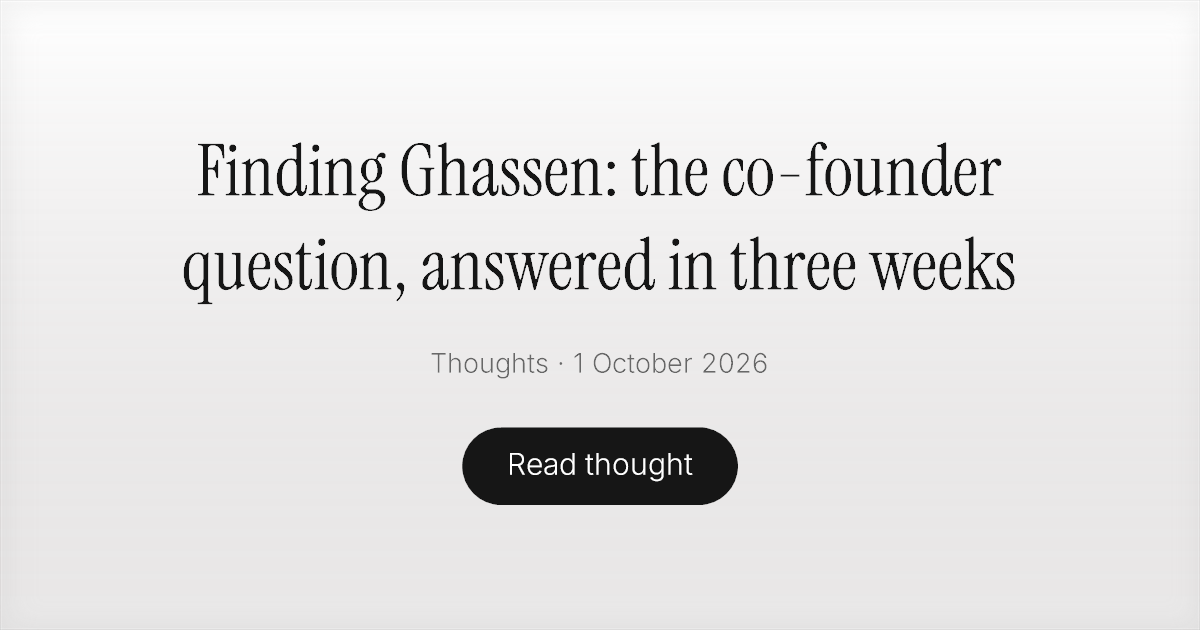
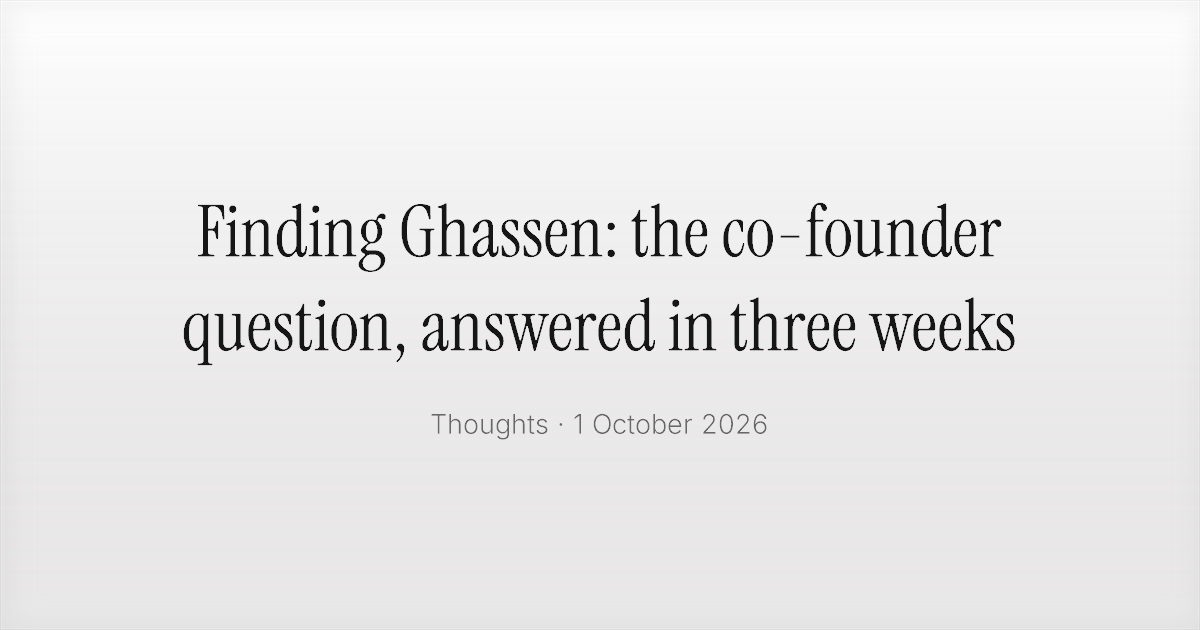
SEO: strengthen Mattia Ciuni entity signals and add security audit note
Make the homepage answer who Mattia Ciuni is and what he does, enrich Person metadata and search intent coverage for Mattia Ciuni and Payle, and publish the security audit note with its generated card, cover, sitemap and markdown card. Keep the homepage and section OG masters unchanged and restore Ghassen's article card style without the new CTA pill.

🤖 Generated with Codebuff

Changed region(s): [[0.1542, 0.2111, 0.8633, 0.6032], [0.37, 0.6635, 0.6475, 0.8143]]

diff --git a/lib/notes.ts b/lib/notes.ts
@@ -13,6 +13,154 @@ export interface Note {
 
 const raw: Note[] = [
   {
+    slug: "what-a-security-audit-taught-me",
+    title: "What a security audit taught me that no bootcamp will",
+    description:
+      "I paid strangers to attack my payments engine. The race conditions, the ledger that lied to itself, and the deletion that would have erased every customer.",
+    date: "2026-10-12",
+    keywords: [
+      "security audit",
+      "payments security",
+      "fintech engineering",
+      "race conditions",
+      "Payle",
+    ],
+    content: [
+      {
+        type: "h2",
+        text: "I shipped it, and then I paid strangers to attack it",
+      },
+      {
+        type: "p",
+        text: "Eight weeks into building Payle, I did something most pre-seed founders don't do: I hired someone to find everything wrong with my code.",
+      },
+      {
+        type: "p",
+        text: "Not a code review from a friend. Not a \"looks good to me\" from a cofounder. A full external audit of the money path: the authorization engine, the ledger, every place where a euro could move without a human understanding why.",
+      },
+      {
+        type: "p",
+        text: "I want to tell you what it found, because the list humbled me, taught me more than any tutorial ever has, and contains lessons that no bootcamp in the world includes in its curriculum.",
+      },
+      {
+        type: "h2",
+        text: "Finding one: the race that could double-charge",
+      },
+      {
+        type: "p",
+        text: "My authorization endpoint checked the budget, then wrote the decision, then recorded the idempotency key. Three steps. Linear. Obvious.",
+      },
+      {
+        type: "p",
+        text: "Except that HTTP doesn't care about my sense of order. Two identical requests arriving at the same millisecond, and agents retry aggressively because that is their nature, could both pass the check, both write a decision, and both authorize a payment. Double charge. Same user. Same second.",
+      },
+      {
+        type: "p",
+        text: "The fix sounds boring and is beautiful: the idempotency claim and the decision must live in the same database transaction. Insert the key first. If another request got there first, return its stored response. If not, this request owns the key and the decision. One transaction. One truth.",
+      },
+      {
+        type: "p",
+        text: "In payments, correctness isn't about what your code does. It is about what your code does when two copies of it run at the same time.",
+      },
+      {
+        type: "p",
+        text: "Concurrency is where junior code and production code diverge.",
+      },
+      {
+        type: "h2",
+        text: "Finding two: the ledger that lied to itself",
+      },
+      {
+        type: "p",
+        text: "I was proud of my hash-chained ledger. Every entry linked to the previous one with sha256. Tamper-evident, like a blockchain, but honest about being a database.",
+      },
+      {
+        type: "p",
+        text: "The audit found two holes in it. First: I read the previous hash outside the transaction that appended the new entry, meaning two concurrent writes could fork the chain. Second: one lifecycle path wrote a literal string as a hash instead of computing one. My own verification tool, pointed at my own healthy system, would have cried \"TAMPERED.\"",
+      },
+      {
+        type: "p",
+        text: "Both fixed. Both now covered by tests that fail if anyone ever regresses them.",
+      },
+      {
+        type: "p",
+        text: "A security property you haven't tested is a decoration, not a property.",
+      },
+      {
+        type: "p",
+        text: "\"The ledger is immutable\" is a sentence. \"This test proves the chain verifies after 10,000 mixed-lifecycle operations\" is a fact.",
+      },
+      {
+        type: "h2",
+        text: "Finding three: the deletion that would have erased everyone",
+      },
+      {
+        type: "p",
+        text: "This one still keeps me up at night, a little.",
+      },
+      {
+        type: "p",
+        text: "My account-deletion endpoint deleted ledger entries. With no WHERE clause. Meaning: one user tapping \"delete my account\" would have wiped the audit trail of every customer in the system. The audit called it what it was: a global data destruction bug hiding behind a routine feature.",
+      },
+      {
+        type: "p",
+        text: "The fix: the ledger is never deleted, ever. Account deletion pseudonymizes the user's identity while preserving the financial chain. Roles at the database level now enforce what the application used to promise.",
+      },
+      {
+        type: "p",
+        text: "Destructive operations need to be scoped at the database level, not by application discipline.",
+      },
+      {
+        type: "p",
+        text: "Application code changes. Privileges don't, unless you make them.",
+      },
+      {
+        type: "h2",
+        text: "Finding four: fail-safe vs fail-open",
+      },
+      {
+        type: "p",
+        text: "When the risk service is down, what should the payment system do? Block everything, or approve everything?",
+      },
+      {
+        type: "p",
+        text: "I had built neither, because I hadn't built the risk service yet, so the question was theoretical. The audit forced it to become practical: it wired the fail-safe path, made \"risk service unreachable\" a first-class state, and added the rule I now consider sacred: when uncertain, a human approves. Machines don't guess with money.",
+      },
+      {
+        type: "h2",
+        text: "The full list was longer",
+      },
+      {
+        type: "p",
+        text: "Missing rate limiting. PII in logs. A config that boots happy when malformed and dies on first request. An ID verification flow that a 2023-era attacker would laugh at. Each finding was a conversation between me and my own assumptions.",
+      },
+      {
+        type: "p",
+        text: "And the reason I'm writing this isn't humility. It's arithmetic: every one of these bugs, found after launch, costs ten times more, in money, in trust, in YC interviews where a partner asks \"how do you know your ledger doesn't fork?\" and you don't have an answer with a test in it.",
+      },
+      {
+        type: "h2",
+        text: "What I'd tell every builder now",
+      },
+      {
+        type: "p",
+        text: "If you're building anything that touches money, do this before your next feature:\n1. Get someone whose job is breaking your assumptions.\n2. Fix what they find with tests that fail before the fix.\n3. Keep those tests in CI forever, so the lesson can't be unlearned.",
+      },
+      {
+        type: "p",
+        text: "The audit didn't just find bugs. It taught me the difference between code that works and code that deserves to hold someone's money. That difference is the entire fintech industry, compressed.",
+      },
+      {
+        type: "p",
+        text: "No bootcamp covers it. You get it by paying strangers to attack the thing you love.",
+      },
+      {
+        type: "p",
+        text: "Worth every cent.",
+      },
+    ],
+  },
+  {
     slug: "the-moment-my-ai-agent-asked-for-my-credit-card",
     title: "The moment my AI agent asked for my credit card",
     description:

diff --git a/scripts/verify.js b/scripts/verify.js
@@ -82,7 +82,7 @@ const smIndex = read("sitemap.xml");
 check("sitemap: index with 3 children", smIndex.includes('<sitemapindex xmlns="http://www.sitemaps.org/schemas/sitemap/0.9">') && (smIndex.match(/<sitemap>/g) || []).length === 3 && smIndex.includes(`${PROD}/sitemap-home.xml`) && smIndex.includes(`${PROD}/sitemap-thoughts.xml`) && smIndex.includes(`${PROD}/sitemap-notes.xml`));
 check("sitemap-home: 3 urls", (read("sitemap-home.xml").match(/<loc>/g) || []).length === 3 && read("sitemap-home.xml").includes(`${PROD}/`) && read("sitemap-home.xml").includes(`${PROD}/voice-notes/`) && read("sitemap-home.xml").includes(`${PROD}/videos/`));
 check("sitemap-thoughts: 4 url", (read("sitemap-thoughts.xml").match(/<loc>/g) || []).length === 4 && read("sitemap-thoughts.xml").includes("finding-ghassen-the-co-founder-question-answered-in-three-weeks"));
-check("sitemap-notes: 8 url", (read("sitemap-notes.xml").match(/<loc>/g) || []).length === 8 && read("sitemap-notes.xml").includes("/notes/"));
+check("sitemap-notes: 9 url", (read("sitemap-notes.xml").match(/<loc>/g) || []).length === 9 && read("sitemap-notes.xml").includes("/notes/"));
 // Le date seguono i contenuti: una collezione è datata con l'elemento più
 // recente che contiene, non con la data del deploy.
 const sitemapUrls = (xml) =>
@@ -162,7 +162,7 @@ check("card thoughts index: 3 posts", (thoughtsCard.match(/^\- \[.*\]\(thoughts\
 const postCard = read("thoughts/money-layer-for-ai-agents.md");
 check("card post: content", postCard.includes("- Type: Blog post") && postCard.includes(PROD + "/thoughts/money-layer-for-ai-agents") && postCard.includes("- Published: 2026-09-20"));
 const notesCard = read("notes.md");
-check("card notes index: 7 notes", (notesCard.match(/^\- \[.*\]\(notes\/[a-z0-9-]+\.md\)/gm) || []).length === 7 && notesCard.includes("the-moment-my-ai-agent-asked-for-my-credit-card.md") && notesCard.includes("idempotent-payments-for-ai-agents.md") && notesCard.includes("the-agentic-economy-is-a-trust-problem.md") && notesCard.includes("on-boring-systems.md") && notesCard.includes("what-interviews-teach-me-about-people-and-my-own-company.md") && notesCard.includes("honestly-im-excited.md") && notesCard.includes("about-the-name.md"));
+check("card notes index: 8 notes", (notesCard.match(/^\- \[.*\]\(notes\/[a-z0-9-]+\.md\)/gm) || []).length === 8 && notesCard.includes("what-a-security-audit-taught-me.md") && notesCard.includes("the-moment-my-ai-agent-asked-for-my-credit-card.md") && notesCard.includes("idempotent-payments-for-ai-agents.md") && notesCard.includes("the-agentic-economy-is-a-trust-problem.md") && notesCard.includes("on-boring-systems.md") && notesCard.includes("what-interviews-teach-me-about-people-and-my-own-company.md") && notesCard.includes("honestly-im-excited.md") && notesCard.includes("about-the-name.md"));
 
 // Pointeer "For AI:" visibile in fondo a ogni pagina
 check("page: For AI link on home", index.includes("For AI:") && index.includes('href="/index.md"'));
@@ -438,5 +438,9 @@ console.log("homepage html+css: " + (bytes / 1024).toFixed(1) + "KB raw | all JS
 // La home include l'intero archivio Notes nel carousel, i due ingressi Field
 // notes e i controlli interattivi accessibili. Le cover sono lazy, quindi il
 // markup aggiuntivo non forza il download delle immagini fuori viewport.
-check("weight: homepage html+css < 100KB raw", bytes < 100 * 1024);
+// Il carousel include il testo completo delle note nell'archivio pubblico: la
+// nuova nota di audit aggiunge contenuto reale alla home, non JavaScript o
+// richieste critiche. Il guardrail sale a 110KB per lasciare spazio editoriale
+// senza nascondere regressioni strutturali.
+check("weight: homepage html+css < 110KB raw", bytes < 110 * 1024);
 process.exit(fail ? 1 : 0);

diff --git a/app/page.tsx b/app/page.tsx
@@ -25,9 +25,19 @@ const personJsonLd = {
   "@context": "https://schema.org",
   "@type": "Person",
   name: "Mattia Ciuni",
-  jobTitle: "Founder & CEO",
+  alternateName: ["Mattia Ciuni, Payle founder", "Mattia Ciuni, CEO of Payle"],
+  jobTitle: "Founder & CEO of Payle",
   worksFor: { "@type": "Organization", name: "Payle", url: site.payleUrl },
   url: site.url,
+  mainEntityOfPage: site.url,
+  knowsAbout: [
+    "AI agents",
+    "agentic commerce",
+    "payments infrastructure",
+    "fintech",
+    "software engineering",
+    "founder-led companies",
+  ],
   sameAs: [site.social.github, site.social.linkedin, site.social.x, site.social.instagram, site.social.crunchbase],
   email: `mailto:${site.email}`,
   description: "Founder & CEO of Payle, the money layer for AI agents",
@@ -145,6 +155,16 @@ export default function Home() {
           .
         </p>
       </div>
+
+      <section aria-labelledby="about-mattia-ciuni" className="mb-16 sm:mb-24">
+        <h2 id="about-mattia-ciuni" className="mb-4 font-serif font-medium">Who is Mattia Ciuni?</h2>
+        <p className="m-0 text-text-paragraph">
+          Mattia Ciuni is an Italian founder and the founder and CEO of Payle, a company building the money layer for AI agents. He works on the rules, authorization and receipts that let software spend money safely on behalf of people.
+        </p>
+        <p className="mt-4 m-0 text-text-paragraph">
+          What does Mattia Ciuni do? Before Payle, he built Celeste, an AI browser. Today his work sits at the intersection of AI agents, payments infrastructure, fintech and software engineering.
+        </p>
+      </section>
 
       <section aria-labelledby="principles" className="mb-16 sm:mb-24">
         <h2 id="principles" className="mb-4 font-serif font-medium">Principles</h2>

diff --git a/app/llms.txt/route.ts b/app/llms.txt/route.ts
@@ -15,7 +15,11 @@ export async function GET() {
 
   const text = `# Mattia Ciuni
 
-> Founder & CEO of Payle, the money layer for AI agents. Personal site with bio, live Milan time, principles, now, projects, short thoughts and long-form notes on AI agents, payments and the craft of software.
+> Mattia Ciuni is an Italian founder and the founder and CEO of Payle, the money layer for AI agents. He previously built Celeste, an AI browser. This personal site answers who Mattia Ciuni is and what Mattia Ciuni does: building payments infrastructure for software that acts on behalf of people.
+
+## About Mattia Ciuni
+- [Mattia Ciuni](${base}/): founder and CEO of Payle, working on AI agents, agentic commerce, payments infrastructure and fintech.
+- Common searches: who is Mattia Ciuni, what does Mattia Ciuni do, Mattia Ciuni Payle, CEO of Payle.
 
 ## Home
 - [Home](${base}/): bio, principles, now, projects, thoughts and notes.

diff --git a/app/layout.tsx b/app/layout.tsx
@@ -50,6 +50,12 @@ export const metadata: Metadata = {
   description: site.description,
   keywords: [
     "Mattia Ciuni",
+    "who is Mattia Ciuni",
+    "what does Mattia Ciuni do",
+    "Mattia Ciuni Payle",
+    "CEO of Payle",
+    "Payle founder",
+    "Payle CEO",
     "Payle",
     "AI agents payments",
     "fintech founder",
